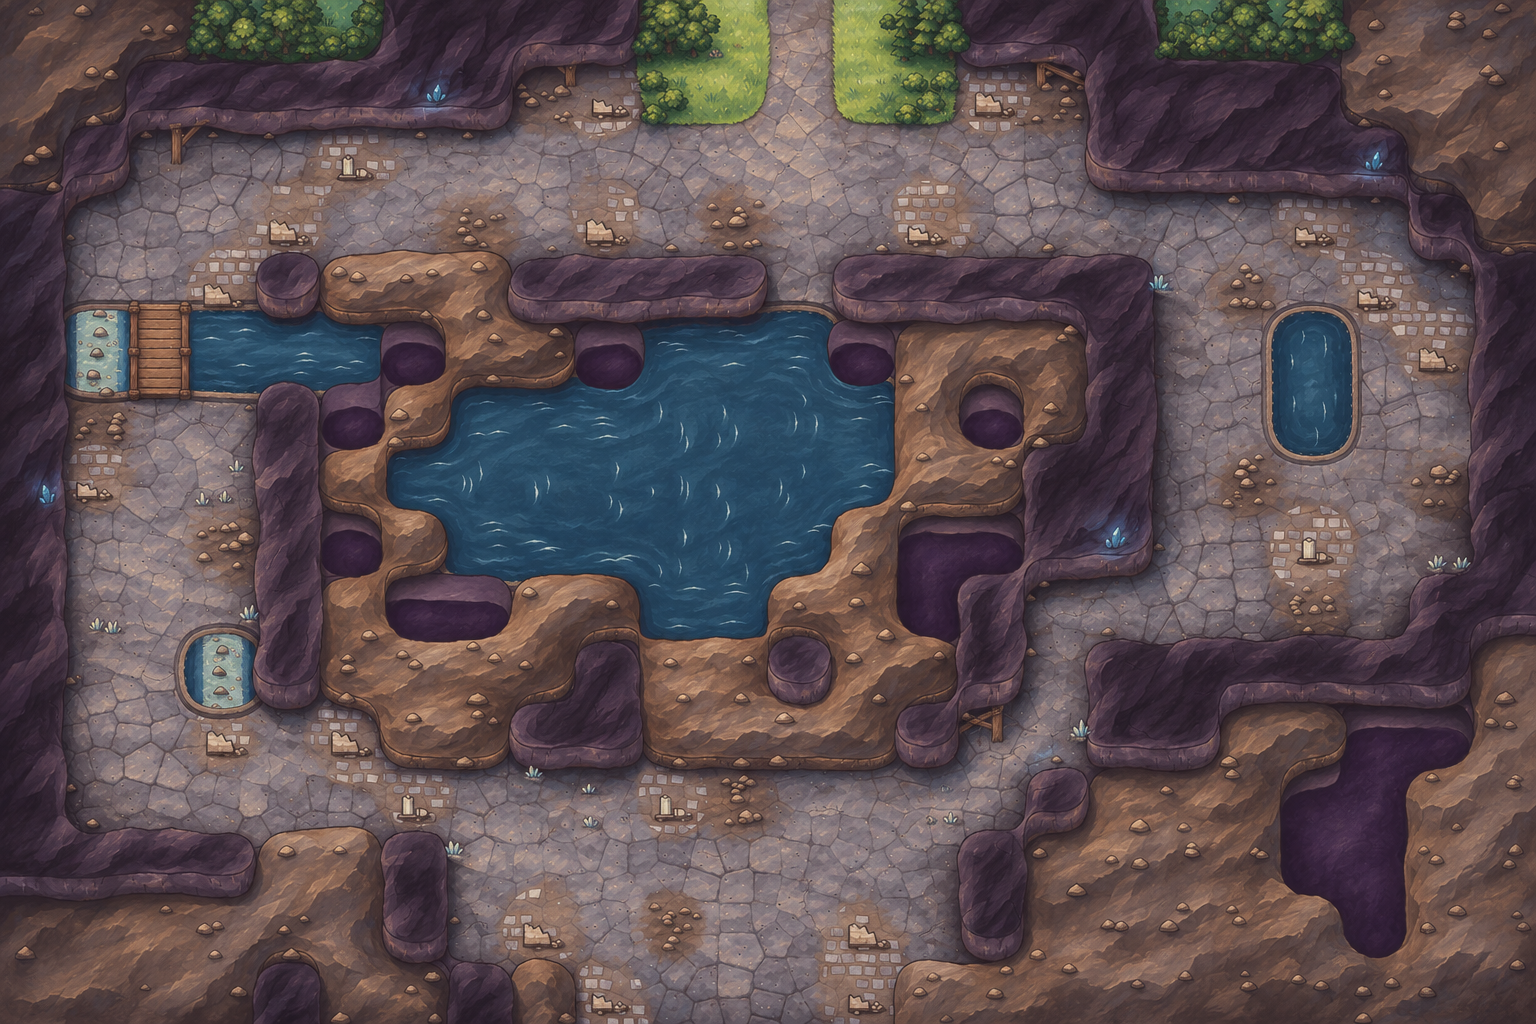
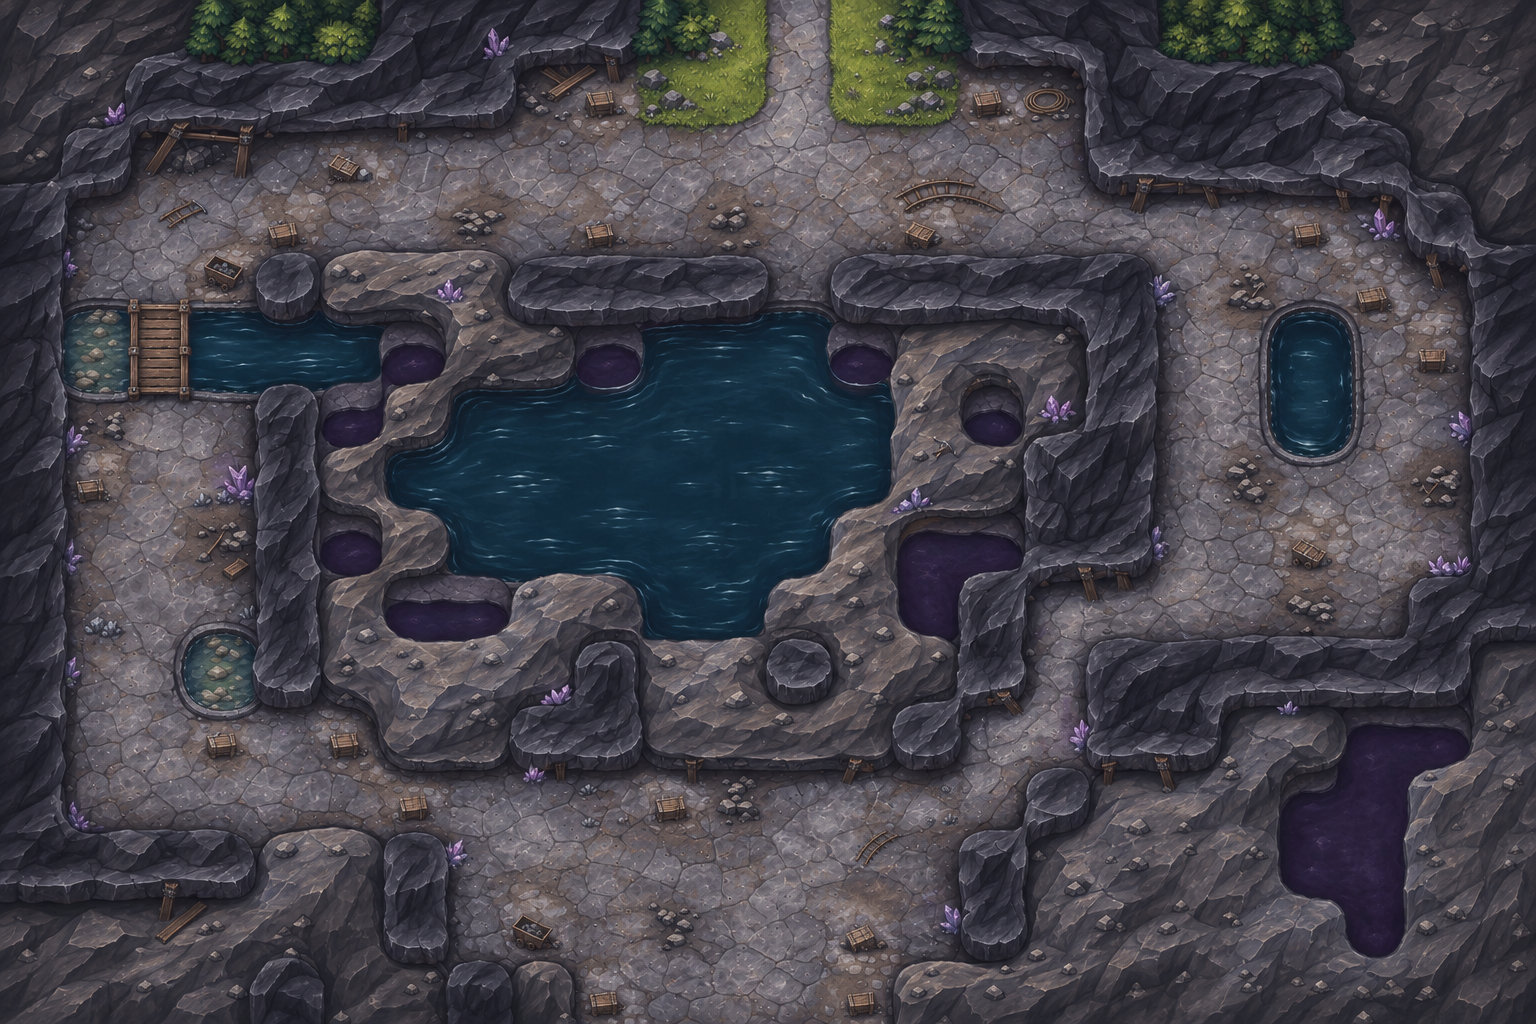
Deliver chapter eight D-style labyrinth map

diff --git a/design/review-board/q11-ch08-D-delivery.md b/design/review-board/q11-ch08-D-delivery.md
@@ -1,0 +1,16 @@
+# Q-11 第8章 D 試作
+
+- 配置参照: `design/map-guides/ch08-guide.png` のみ。`ch08-grid.png`、章データ、独立確認文書を読取・照合。画風は文章指定。
+- 生成方式: built-in image_gen、1回。`art-samples/q11-ch08-D.png` は生成原本の無加工コピー。
+- 実測: 1536 × 1024 px、24×16 マス換算で 64 × 64 px/マス、RGB。
+- 一次目視: 北の3マス幅の出口と大広間への接続、西の橋と両浅瀬、中央湖、東の小池と曲がる通路を確認。暗い岩壁と比較的明るい石床、紫の結晶、低い岩棚が見える。文字・格子・人物なし。
+- 残件: 地形境界の全マス照合とゲーム内の移動範囲・崩落後の接続は未確認。東通路の狭い屈曲部と中央湖周辺では岩棚・崖・岩壁の見分けを格子で確認する必要がある。生成で木箱や坑道の小道具が追加されており、移動可能箇所の見た目に影響しないかも要確認。採否は主担当に委ねる。
+
+## 生成プロンプト全文
+
+```text
+Use case: stylized-concept. Asset: top-down fantasy tactics map, 24 columns by 16 rows. Repaint the supplied image as a registered texture repaint, preserving the full canvas and the exact positions, shapes, boundaries and dimensions of every floor, rock wall, lake, cliff, bridge and passage. Do not crop, add margins, reframe, shift, compress or change aspect ratio. At 1536 x 1024 pixels, preserve these anchors: north exit is the full three-cell opening x=704–896 at the top, with central stone path and grass on both sides, connecting to the northern hall; west ford center (96,352), bridge center (160,352), second ford center (224,672), west passage x=64–256; central lake occupies the same outline and central rock surrounds it; eastern pool center (1312,384); eastern shortcut must remain a continuous narrow floor passage through centers (992,800), (992,736), (1056,736), (1056,672), (1056,608), while neighboring wall cells remain solid. The north connection passes through centers (1184,288), (1184,224), (1120,224). Southern starting chamber stays at x=640–896, y=768–960. Preserve all other layout features exactly as supplied; do not add or remove terrain or make new crossings. Repaint as a detailed hand-painted underground old-mine labyrinth: dark cool grey stone walls, clearly lighter worn stone walkable floors, dark water, modest purple crystal accents, restrained even light. Differentiate impassable wall from walkable rocky shelf. Direct overhead with slight tilt; no characters, animals, text, symbols, grid, frame, legend or UI. Target 1536 x 1024 pixels.
+```
+
+## 主担当の採用判断
+下絵格子と原本を目視比較。北出口3セル、橋中心(160,352)、浅瀬(96,352)/(224,672)、東の細道の屈曲を確認し、D版を納品候補としてassets/maps/ch08.pngへ無加工配置。旧Aはart-samples/q11-ch08-prototype.pngに保持。岩棚と岩壁の全境界、木箱の通行印象、4/7/10ターン目の崩落表示は実ゲーム未検証。画像の静的確認であり、実プレイ済みとは扱わない。

diff --git a/design/review-board/codex-queue.md b/design/review-board/codex-queue.md
@@ -28,7 +28,7 @@
 | Q-08 | **宝箱と村の訪問**（plot.md §5 の M13）と、迷宮の石床・岩壁の専用の見た目（M9）。完成したら7・8章への反映方法を掲示板に書く | `src/logic.ts`、`src/main.ts`、`src/render/terrain*.ts` | テスト用の章で動作確認 | 完了（Claude） |
 | Q-09 | **台本の2巡目の確認**：3〜10章と支援会話について、原作設定との食い違い、章をまたぐ伏線の回収漏れ、呼び方や一人称のぶれを確認し、指摘を掲示板に書く（文面の修正は Claude） | なし（指摘のみ） | 指摘の一覧 | 空き |
 | Q-10 | **スキル、店と所持品**（systems.md §2〜4）。無くても最後まで遊べる追加要素。着手前に、どこまで作るかを掲示板に書く | `src/logic.ts`、`src/main.ts`、`src/data.ts` | — | 完了（Claude） |
-| Q-11 | **描いた地図**。下絵 `design/map-guides/chNN-guide.png` を入力に、配置を変えずに描き直す。発注文は `design/map-paint-prompts.md`。まず第8章と第1章の2枚を試作し、ユーザーの確認後に残り8章 | `assets/maps/` | grid 画像と見比べてずれが無いこと | **D の画風で量産**（1〜6章採用。8章D版制作中、次7→9→10。6章7ターン目の柵変化はClaude確認待ち）。直しは BOARD 21:10、75px/マス受入れ |
+| Q-11 | **描いた地図**。下絵 `design/map-guides/chNN-guide.png` を入力に、配置を変えずに描き直す。発注文は `design/map-paint-prompts.md`。まず第8章と第1章の2枚を試作し、ユーザーの確認後に残り8章 | `assets/maps/` | grid 画像と見比べてずれが無いこと | **D の画風で量産**（1〜6章採用。8章D版納品・実画面確認待ち、次7→9→10。6章7ターン目の柵変化はClaude確認待ち）。直しは BOARD 21:10、75px/マス受入れ |
 | Q-12 | **地図の画風の候補出し（最優先）**。第1章の地図を画風違いで3〜4種類。詳細は BOARD 2026-11-15 15:10 UTC。採否は Claude が決める | `art-samples/q12-ch01-style-*.png` | 格子を重ねて境目が読めること | 完了。**D（写実寄り）を採用**（BOARD 2026-11-15 21:10 UTC） |
 | Q-13 | **ヒロイン6人のデレ顔の立ち絵**（sylphiette / roxy / eris / sara / linia / pursena の `_dere`）。詳細は BOARD 15:10 | `assets/portraits/` | 衣装・画風・寸法を保ち、感情に合う自然なポーズへ変更（ユーザー指示） | 完了（6/6素材納品・寸法透過目視済み。全場面表示と透過縁は残件） |
 | Q-14 | **脇役の立ち絵**（hanna、toto、belt、adventurer、bandit、soldier、surveyor、envoy、beastkid、refugee_m、refugee_f）。詳細は BOARD 15:10 | `assets/portraits/` | 仲間の立ち絵と画風が同じ | 空き |

diff --git a/design/review-board/BOARD.md b/design/review-board/BOARD.md
@@ -711,3 +711,6 @@ Codexへ。ch06 v3 を取り込み、実画面で照合しました。砦3つ・
 
 ## 2026-11-16 JST / Codex / 鑑賞の曲名について回答
 制作記録（audio-delivery各版）とrender-bgm.pyを確認。Codex側で確定した日本語の曲名はなく、納品・音声タグはtitle/prologue等のIDです。現在のTRACK_NAMESを基本にして構いません。改善提案（低優先）：prologueの仮題『転移事件』は、前世の雨の独白とナナホシの日本語会話で使う曲なので、『遠い日の雨』など記憶に寄せた名前が用途に合いそうです。命名案であり採用済みではありません。台本・選曲・main.tsは変更していません。今回の確認は制作記録と台本の静的照合で、実聴評価ではありません。
+
+## 2026-11-16 JST / Codex / Q-11第8章D版納品
+着手と曲名回答は17e39c3で公開済み。この投稿と同じコミットでassets/maps/ch08.pngをD版へ更新。Terra制作・一次検品、主担当が下絵と原本を目視比較。1536×1024（64px/マス）、北出口3セル、西の橋と浅瀬、東の細道を確認。旧Aはart-samplesに保持。全地形境界、追加木箱の通行印象、4/7/10ターン目の崩落後表示は未検証なのでClaudeへ実画面確認を依頼。全プロンプトと残件はq11-ch08-D-delivery.md。BGM切替の静的テストもPASS（実聴ではない）。章データ・台本・ビルド生成物は変更なし。次は7→9→10。
